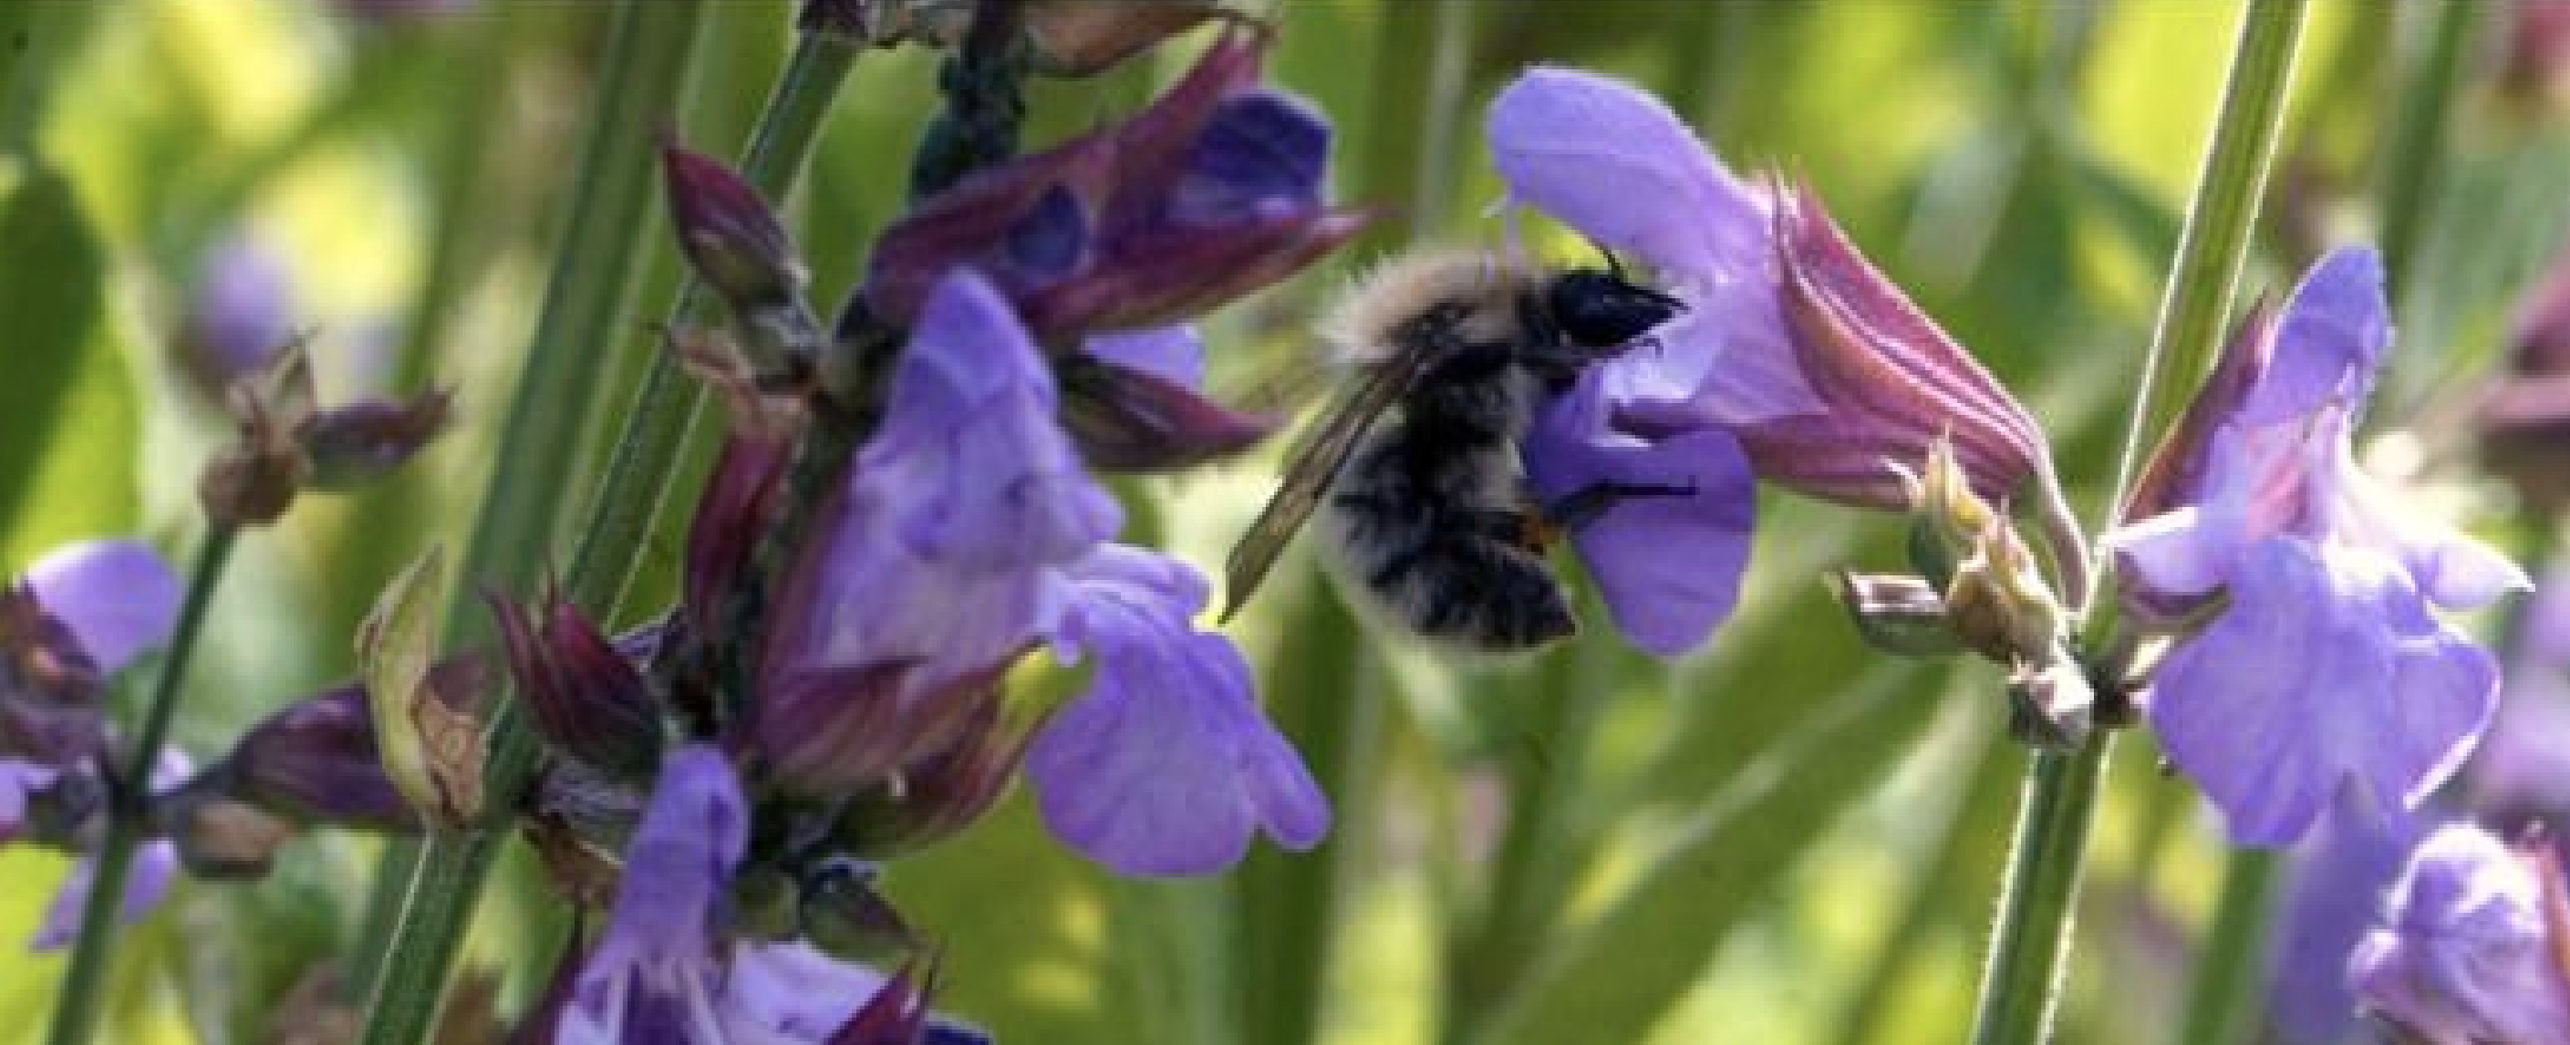
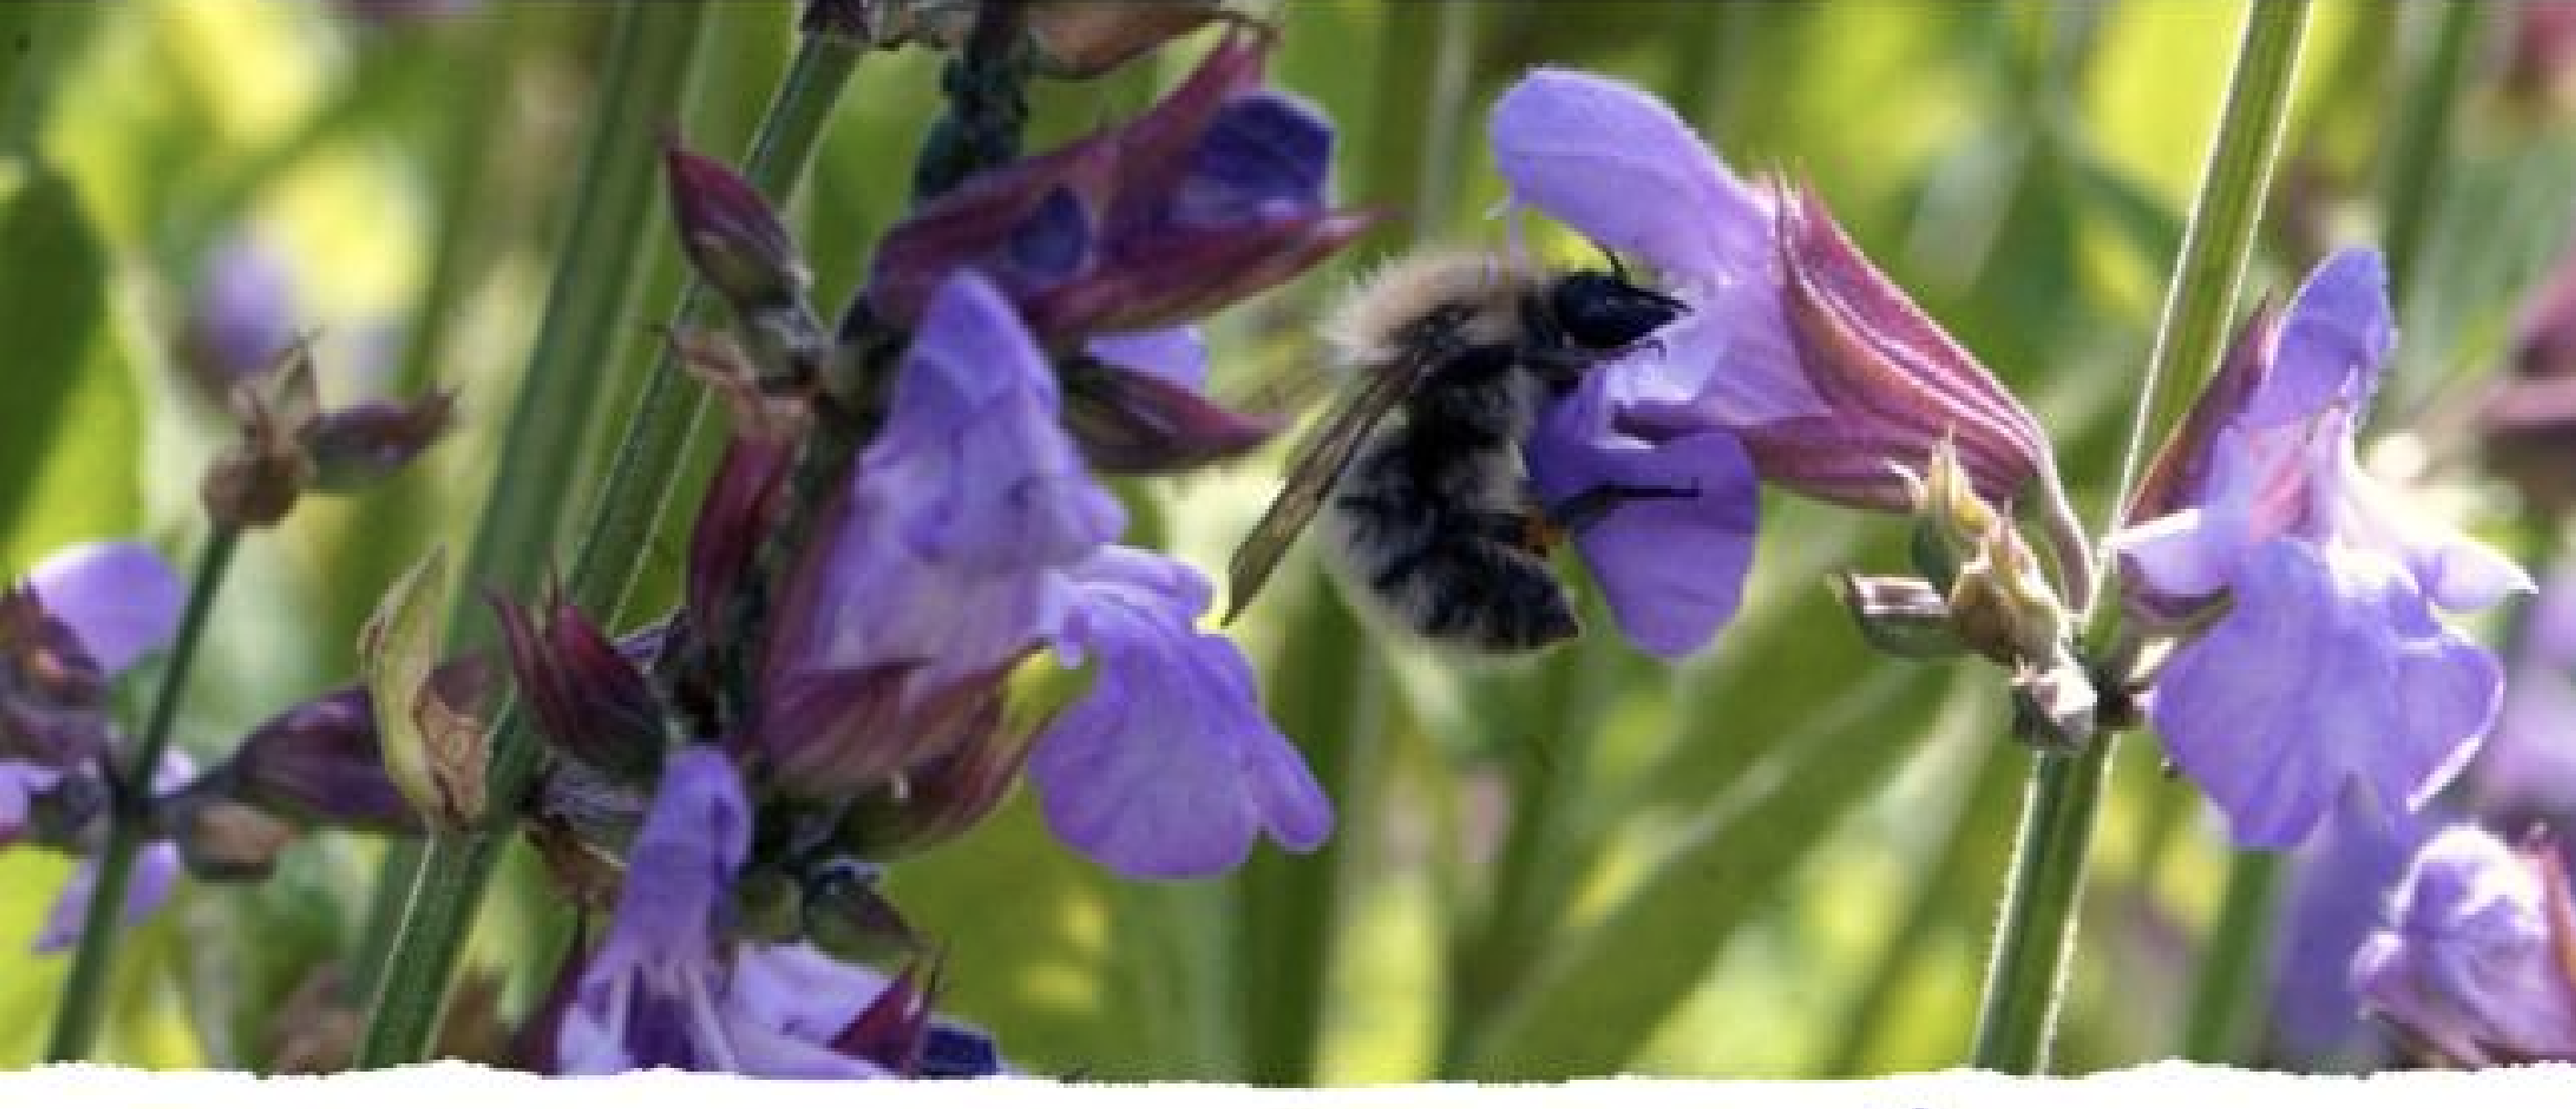
adjusted images and torn

diff --git a/src/app/components/HeroImage.tsx b/src/app/components/HeroImage.tsx
@@ -4,16 +4,27 @@ import React from "react";
 
 const HeroImage: React.FC = () => {
   return (
-    <section className="hero-image">
-      <Image
-        src="/hero-bee.png"
-        alt="Wild flowers and bees"
-        width={1920}
-        height={300}
-        priority
-        className="hero-img"
-      />
-    </section>
+    <>
+      <section className="hero-image">
+        <Image
+          src="/hero-bee.png"
+          alt="Wild flowers and bees"
+          width={120}
+          height={300}
+          priority
+          className="hero-img"
+        />
+
+        {/* Torn edge */}
+        <Image
+          src="/torn.png"
+          alt=""
+          width={1920}
+          height={80}
+          className="hero-torn"
+        />
+      </section>
+    </>
   );
 };
 

diff --git a/src/app/components/Header.tsx b/src/app/components/Header.tsx
@@ -7,18 +7,11 @@ const Header: React.FC = () => {
     <header className="header">
       {/* Left Bee Icon */}
       <div className="header-left">
-        <Image
-          src="/bee-icon.png"
-          alt="Bee icon"
-          width={28}
-          height={28}
-        />
+        <Image src="/bee-icon.png" alt="Bee icon" width={70} height={50} />
       </div>
 
       {/* Center Title */}
-      <div className="header-title">
-        InNature
-      </div>
+      <div className="header-title">InNature</div>
 
       {/* Right Hamburger */}
       <div className="header-menu">

diff --git a/src/app/page.css b/src/app/page.css
@@ -43,7 +43,7 @@
   position: absolute;
   left: 50%;
   transform: translateX(-50%);
-  font-size: 20px;
+  font-size: 32px;
   font-weight: 600;
   letter-spacing: 1px;
 }
@@ -77,6 +77,10 @@
     white 50%,
     white 100%
   );
+}
+
+.hero-torn {
+  background: #0f6b3c;
 }
 
 .hero-image::after {
@@ -161,7 +165,7 @@
 .bumblebee-image {
   position: absolute;
   right: 0;
-  top: -120px;
+  top: -250px;
   font-size: 90px;
   transform: rotate(-20deg);
 }

diff --git a/src/app/components/FlowersSection.tsx b/src/app/components/FlowersSection.tsx
@@ -5,9 +5,6 @@ import Image from 'next/image';
 const FlowersSection: React.FC = () => {
   return (
     <div className="flowers-section">
-      {/* <div className="flower yellow">🌼</div>
-      <div className="flower red">🌹</div>
-      <div className="flower purple">🌸</div> */}
       <Image
         src="/flowers.png"
         alt="Flowers"
